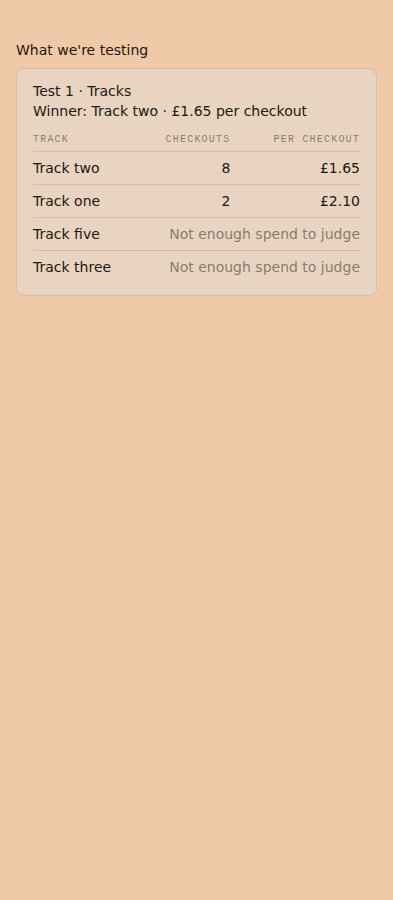
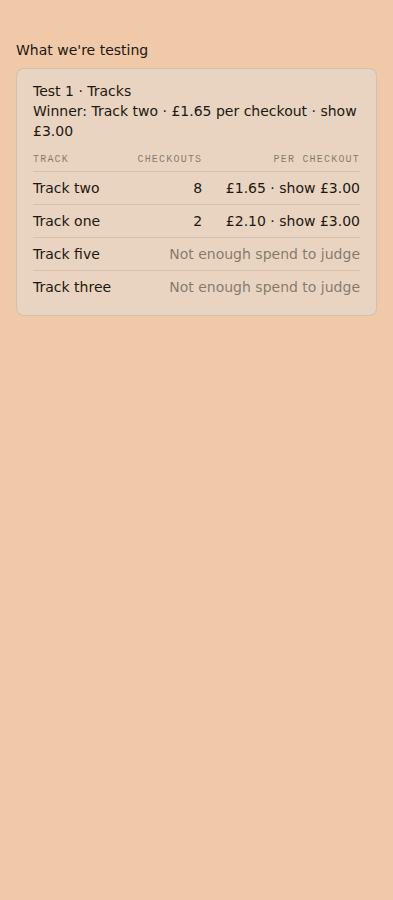
Creative testing issue 6 on tracks, statics and together: the show's benchmark (TF5–TF8) (#1344)
* Creative test variant pairs: the track-pair maker, sign-off, Approve, panel and frames (VP1–VP10; migration 261, unapplied)

Built to docs/design-record/2026-11-18-creative-test-variant-pairs.html (#1339).
The TF5–TF8 benchmark rule (#1341) follows.

* Creative testing issue 6 on variant pairs: the show's benchmark, extend and stop (TF5–TF8; migration 261)

TF5's benchmark (benchmark.ts) and TF6's call / extend / stop decision
(benchmark-call.ts) as pure functions, TF7's words on the panel and share
link, the stopped state and the TF6 / TF5 columns in migration 261, VP-B and
VP-C with the benchmark, and TF-D. Applies to pairs (TF8); the other kinds
follow. The extend and pause writes come with the daily read job.

* Creative testing issue 6 on the creative tests: tracks, statics, together and clip take the show's benchmark (TF5–TF8)

The benchmark call, extension and stop now apply to every creative test TF2
calls in a test ad set, not only pairs. The CT12 copy test, which runs in
place, keeps TF2's call. TF-A and TF-C carry Matas's example £3.00 benchmark;
TF-B and TT-D read as before (no benchmark in their reads).

* Commit the three design-passed TF-A/TF-C re-shoots byte for byte from artifact 14449611138

TFA-1280, TFA-393 and TFC-393 with " · show £3.00", as design passed them at b75c93a.

---------

diff --git a/lib/creative-tests/__tests__/panel-view.test.ts b/lib/creative-tests/__tests__/panel-view.test.ts
@@ -19,7 +19,8 @@ describe("TF-A: the panel at the 48-hour read", () => {
   it("opens the called test with its winner, budget line and table", () => {
     assert.equal(card.name, "Test 1 · Tracks");
     assert.equal(card.open, true);
-    assert.equal(card.state, "Winner: Track two · 66 % of spend · £1.65 per checkout");
+    // Issue 6 (TF7): the result line carries the show's benchmark, Matas's example £3.00.
+    assert.equal(card.state, "Winner: Track two · 66 % of spend · £1.65 per checkout · show £3.00");
     // TT8: the full ad set name, as made.
     assert.equal(card.budgetLine, "In P26-BDAY · Tests · Video · 17 Nov · £10 a day · 6 % of current daily spend (cap £10) · read at 48 h, £20.00 spent");
     assert.equal(card.budgetLineShort, "£10 a day · 6 % of current daily spend (cap £10)");
@@ -30,8 +31,8 @@ describe("TF-A: the panel at the 48-hour read", () => {
     assert.deepEqual(
       card.rows.map((r) => [r.label, r.sharePct, r.spend, r.results, r.cost, r.leader]),
       [
-        ["Track two", "66", "£13.20", 8, "£1.65", true],
-        ["Track one", "21", "£4.20", 2, "£2.10", false],
+        ["Track two", "66", "£13.20", 8, "£1.65 · show £3.00", true],
+        ["Track one", "21", "£4.20", 2, "£2.10 · show £3.00", false],
         ["Track five", "9", "£1.80", 1, "Not enough spend to judge", false],
         ["Track three", "4", "£0.80", 0, "Not enough spend to judge", false],
       ],
@@ -40,8 +41,8 @@ describe("TF-A: the panel at the 48-hour read", () => {
 
   it("393: each row starts with the share (TF3)", () => {
     assert.deepEqual(card.rows.map((r) => r.phone), [
-      "66 % of spend · Track two · £1.65 per checkout · 8",
-      "21 % of spend · Track one · £2.10 per checkout · 2",
+      "66 % of spend · Track two · £1.65 per checkout · show £3.00 · 8",
+      "21 % of spend · Track one · £2.10 per checkout · show £3.00 · 2",
       "9 % of spend · Track five · Not enough spend to judge",
       "4 % of spend · Track three · Not enough spend to judge",
     ]);
@@ -94,11 +95,11 @@ describe("TF-C: the share link, figures only", () => {
   it("shows the name, the winner by cost, and results and cost per result", () => {
     assert.equal(cards.length, 1);
     assert.equal(cards[0]!.name, "Test 1 · Tracks");
-    assert.equal(cards[0]!.state, "Winner: Track two · £1.65 per checkout");
+    assert.equal(cards[0]!.state, "Winner: Track two · £1.65 per checkout · show £3.00");
     assert.deepEqual(cards[0]!.headers, { variant: "Track", results: "Checkouts", cost: "Per checkout" });
     assert.deepEqual(cards[0]!.rows.map((r) => [r.label, r.results, r.cost]), [
-      ["Track two", 8, "£1.65"],
-      ["Track one", 2, "£2.10"],
+      ["Track two", 8, "£1.65 · show £3.00"],
+      ["Track one", 2, "£2.10 · show £3.00"],
       ["Track five", null, "Not enough spend to judge"],
       ["Track three", null, "Not enough spend to judge"],
     ]);

diff --git a/lib/creative-tests/__tests__/benchmark.test.ts b/lib/creative-tests/__tests__/benchmark.test.ts
@@ -51,9 +51,9 @@ describe("TF5: the benchmark", () => {
     assert.equal(isBenchmarkCampaign("P26-BDAY · Tests", "P26-BDAY"), false);
   });
 
-  it("applies to variant pairs in this build (TF8)", () => {
-    assert.equal(benchmarkApplies("pair"), true);
-    assert.equal(benchmarkApplies("tracks"), false);
+  it("applies to every creative test TF2 calls: CT6's, the clip test and pairs, not the in-place copy test", () => {
+    for (const kind of ["tracks", "statics", "together", "clip", "pair"] as const) assert.equal(benchmarkApplies(kind), true, kind);
+    assert.equal(benchmarkApplies("copy"), false);
   });
 });
 
@@ -196,7 +196,7 @@ describe("TF7: the words", () => {
     assert.deepEqual(card.rows.map((r) => r.phone), ["63 % of spend · Get Hard · payoff drop · — per checkout · show £3.00 · 0", "37 % of spend · Get Hard · earlier drop · — per checkout · show £3.00 · 0"]);
   });
 
-  it("the stop line shows on the share link too; CT6's tests keep TF2's words in this build", () => {
+  it("the stop line shows on the share link too; CT6's tests take the benchmark, the copy test doesn't", () => {
     const pair: TestInput = { id: "p", n: 1, kind: "pair", format: "video", runs_in: "tests_adset", state: "stopped", result_event: "initiate_checkout", currency: "GBP", daily_budget_minor: 100, budget_pct: 10, at_minimum: false, first_delivery_at: START, winner_variant_id: null, extensions: 1, held: { pair: "track", asset: "Get Hard", windows: [] } };
     const variants = [
       { id: "a", test_id: "p", position: 1, role: "variant" as const, label: "Get Hard · payoff drop", state: "live" },
@@ -206,7 +206,10 @@ describe("TF7: the words", () => {
     const share = buildShareCards({ tests: [pair], variants, reads, now: at(193) });
     assert.equal(share[0]!.state, "Stopped: both above the show's £3.00 per checkout");
     assert.deepEqual(share[0]!.rows.map((r) => r.cost), ["— · show £3.00", "— · show £3.00"]);
-    const tracks = buildPanel({ eventCode: "P26-BDAY", tests: [{ ...pair, kind: "tracks", state: "running", held: {} }], variants, reads, now: at(193) });
-    assert.doesNotMatch(JSON.stringify(tracks), /show £/);
+    const tracks = buildPanel({ eventCode: "P26-BDAY", tests: [{ ...pair, kind: "tracks", state: "running", held: {}, extensions: 1 }], variants, reads, now: at(193) });
+    assert.equal(tracks.cards[0]!.state, "Stopped: both above the show's £3.00 per checkout");
+    assert.match(JSON.stringify(tracks), /show £3\.00/);
+    const copy = buildPanel({ eventCode: "P26-BDAY", tests: [{ ...pair, kind: "copy", runs_in: "main_adsets", state: "running", held: {} }], variants, reads, now: at(193) });
+    assert.doesNotMatch(JSON.stringify(copy), /show £/);
   });
 });

diff --git a/lib/creative-tests/benchmark-call.ts b/lib/creative-tests/benchmark-call.ts
@@ -37,12 +37,15 @@ export const TF6 = {
 } as const;
 
 /**
- * Which tests TF5–TF8 apply to in this build: variant pairs (TF8). The record
- * applies it to every test TF2 calls; CT6's tests (tracks, statics, together)
- * take it in the follow-up build.
+ * The tests TF5–TF8 apply to: every creative test TF2 calls in a test ad set,
+ * CT6's (tracks, statics, together), the clip test and variant pairs (TF8). Not
+ * the CT12 copy test: it runs in place in the main ad sets, so the main
+ * campaign it would be judged against is the one it runs in.
  */
+export const BENCHMARK_KINDS: readonly TestKind[] = ["tracks", "statics", "together", "clip", "pair"];
+
 export function benchmarkApplies(kind: TestKind): boolean {
-  return kind === "pair";
+  return BENCHMARK_KINDS.includes(kind);
 }
 
 /** One variant's figures at a read, kept for the day-4 / day-8 comparison. */

diff --git a/scripts/plan-frames/test-plan-fixtures.ts b/scripts/plan-frames/test-plan-fixtures.ts
@@ -12,6 +12,11 @@
  *        running words and TF4's share sums, which replace TT3's.
  *   TF-C: TF-A on the share link.
  *
+ * Issue 6 (2026-11-18-creative-testing-6.html, TF7): TF-A and TF-C carry the
+ * show's benchmark, Matas's example £3.00 per checkout; Track two's £1.65 is
+ * under it, so the winner stands. TF-B and TT-D have no benchmark in their reads
+ * (TF5's no-benchmark case), so they read as before.
+ *
  * Show and track names from the records only; the figures are the records'
  * invented ones.
  */
@@ -61,6 +66,7 @@ const TFA_READS: ReadInput[] = [
   {
     test_id: "a1",
     read_at: at(48),
+    benchmark_cost: 3,
     variants: [
       { variantId: "a1-two", spend: 13.2, results: 8 },
       { variantId: "a1-one", spend: 4.2, results: 2 },
